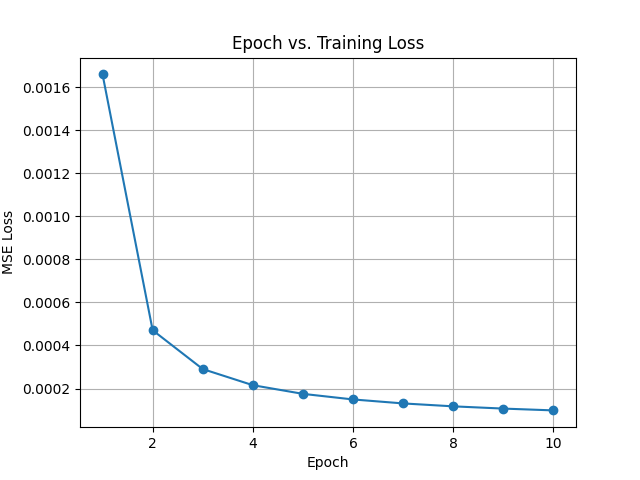
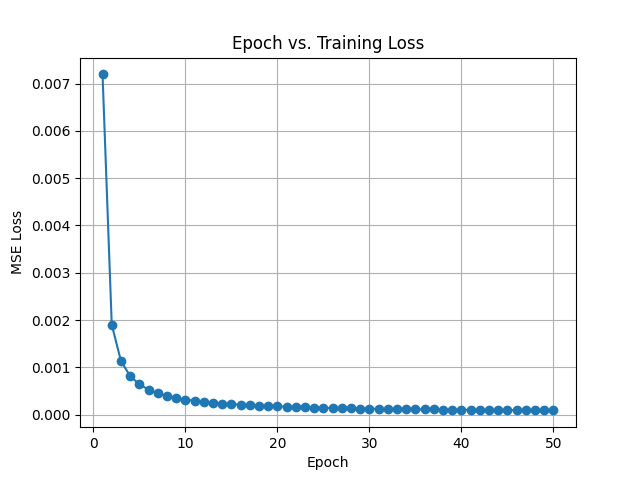
feat: Added jax implemetation code for FNO (POISSON2D)

diff --git a/fno_main_file.py b/fno_main_file.py
@@ -39,7 +39,7 @@ model.compile(optimizer='adam', loss='mse')
 
 # ============ Training ============
 batch_size = 20
-epochs = 10
+epochs = 50
 train_losses = []
 
 for epoch in range(epochs):
